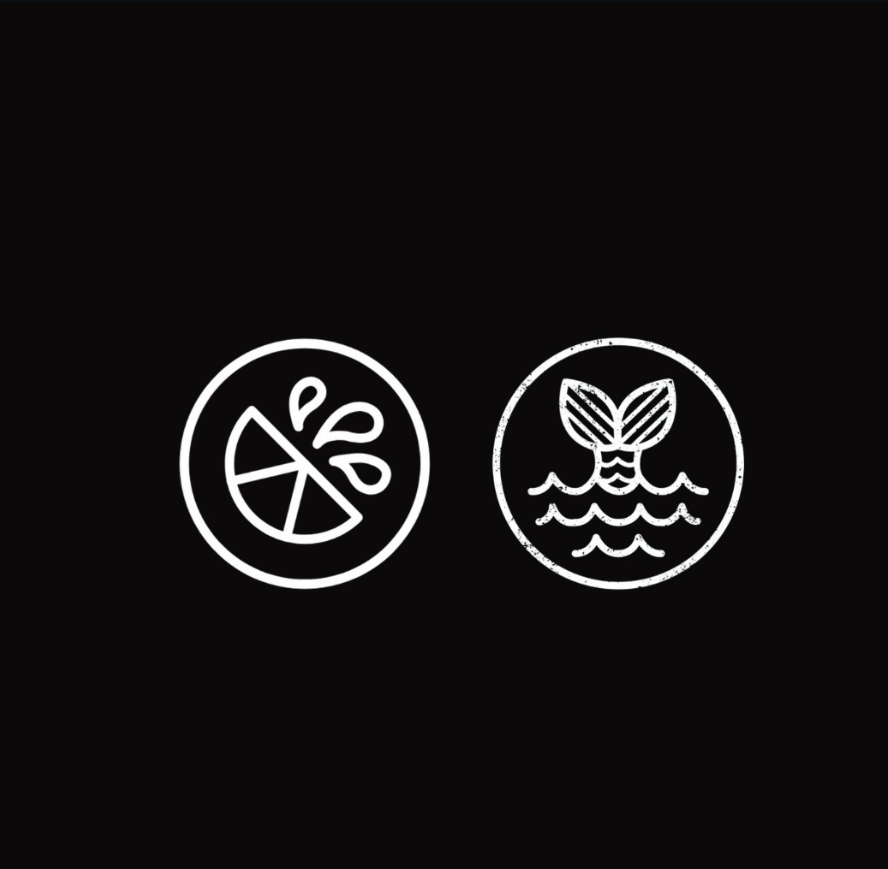
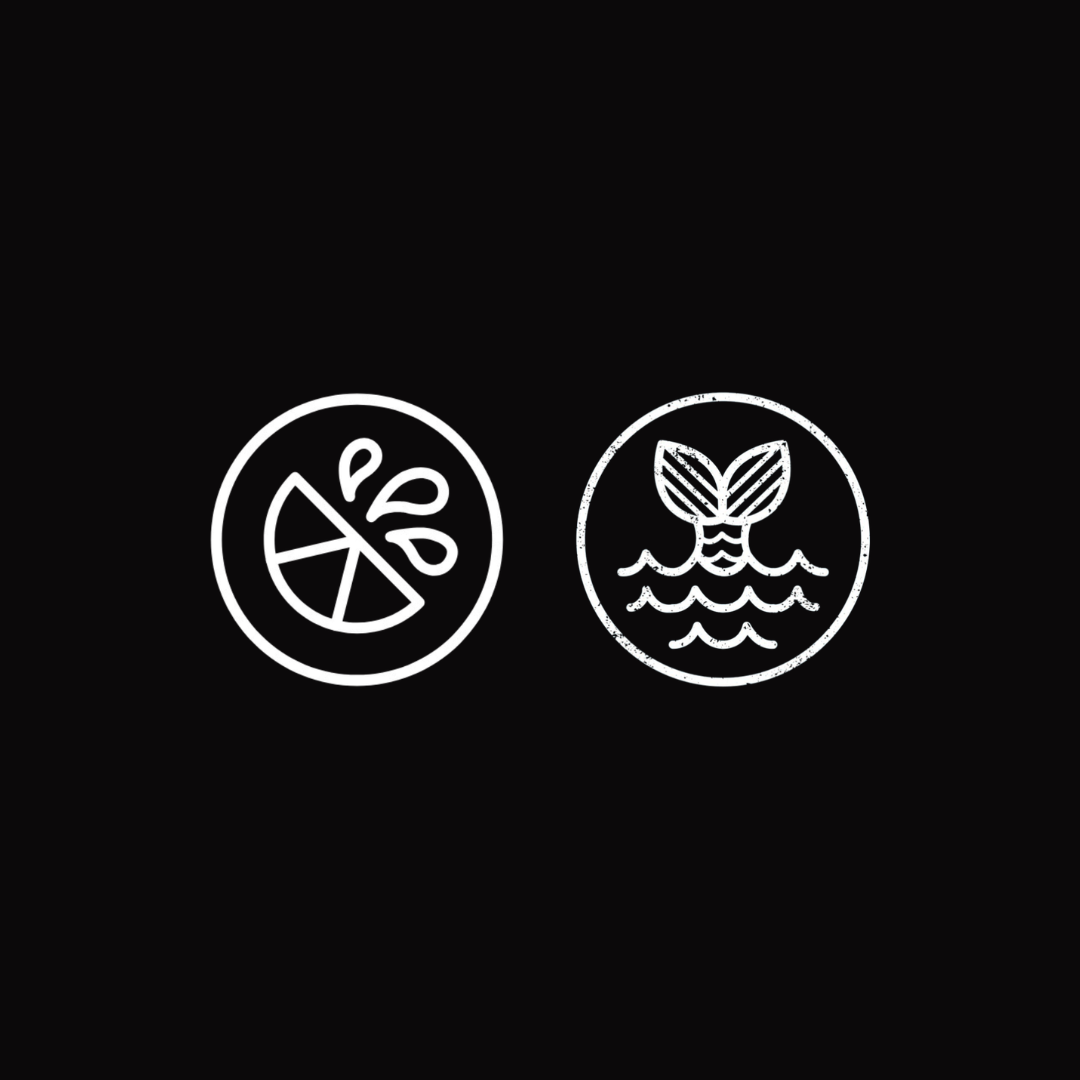
ajuste imagen botanero

Changed region(s): [[0.5169, 0.3418, 0.8514, 0.6835], [0.1824, 0.3418, 0.4865, 0.6835]]

diff --git a/index.php b/index.php
@@ -202,7 +202,7 @@ include 'includes/header.php';
                     <div class="relative group order-1 lg:order-2 max-w-lg mx-auto lg:ml-0 w-full"> 
                         <div class="absolute inset-0 bg-rose-500/20 blur-3xl opacity-20 rounded-full group-hover:opacity-30 transition-opacity"></div>
                         <div class="bg-gray-900 border border-white/10 rounded-2xl aspect-video overflow-hidden relative shadow-2xl">
-                            <img src="assets/img/NUE_logo_main (1).jpg" 
+                            <img src="assets/img/NUE_logo_main (1).png" 
                                  alt="Nue Lingerie Interfaz" 
                                  class="w-full h-full object-cover">
                         </div>